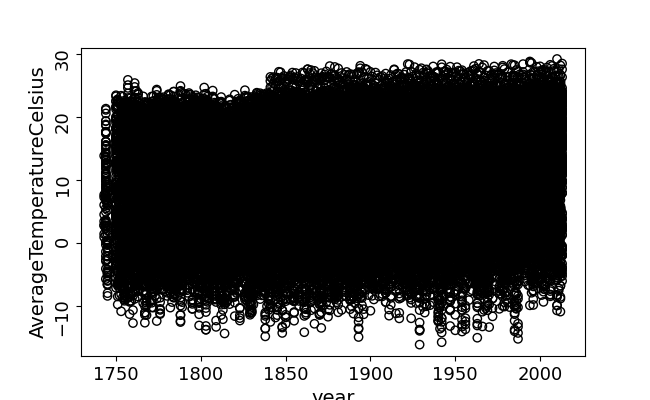
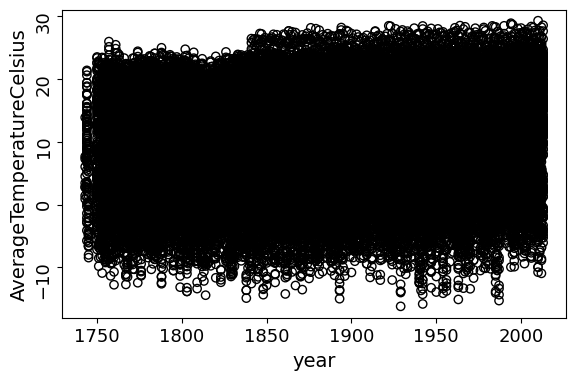
proper task2a.png added

Changed region(s): [[0.0, 0.0289, 0.9688, 1.0], [0.0625, 0.0289, 0.0938, 0.0868], [0.9688, 0.8105, 1.0, 0.8395]]

diff --git a/scripts_and_plots/task2a.py b/scripts_and_plots/task2a.py
@@ -35,7 +35,7 @@ def main():
     if args.show_save == '0':
         plt.show()
     else:
-        plt.savefig('plots/task2a.png')
+        plt.savefig('plots/task2a.png', bbox_inches='tight')
         print('Saving plot in plots dir.')
     print('Done')
 
